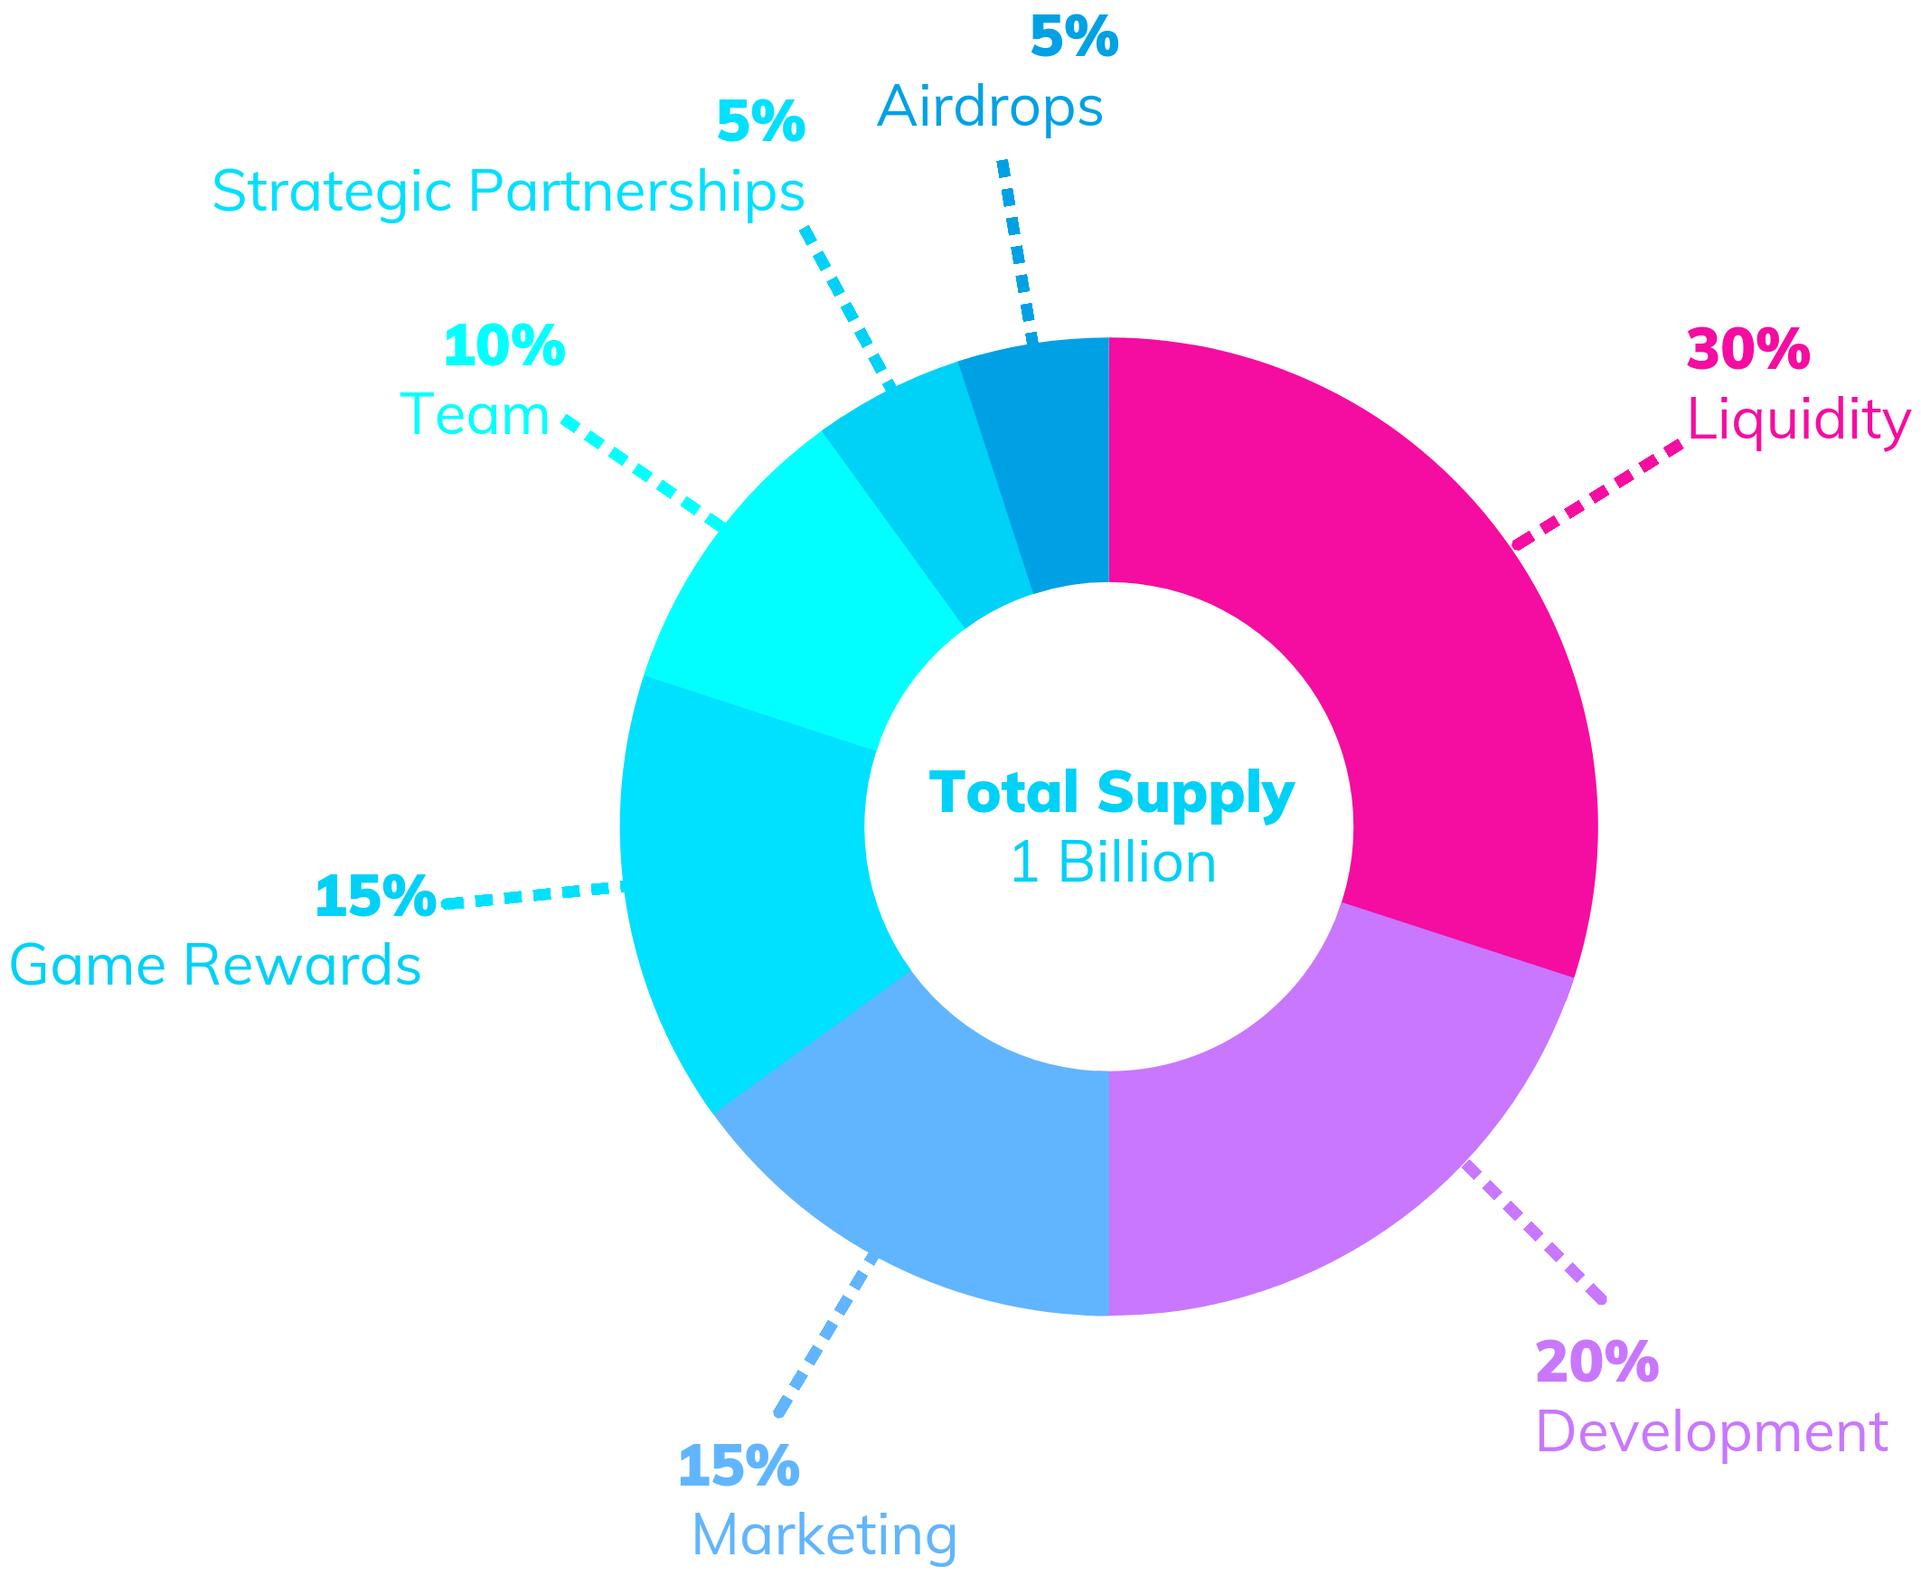
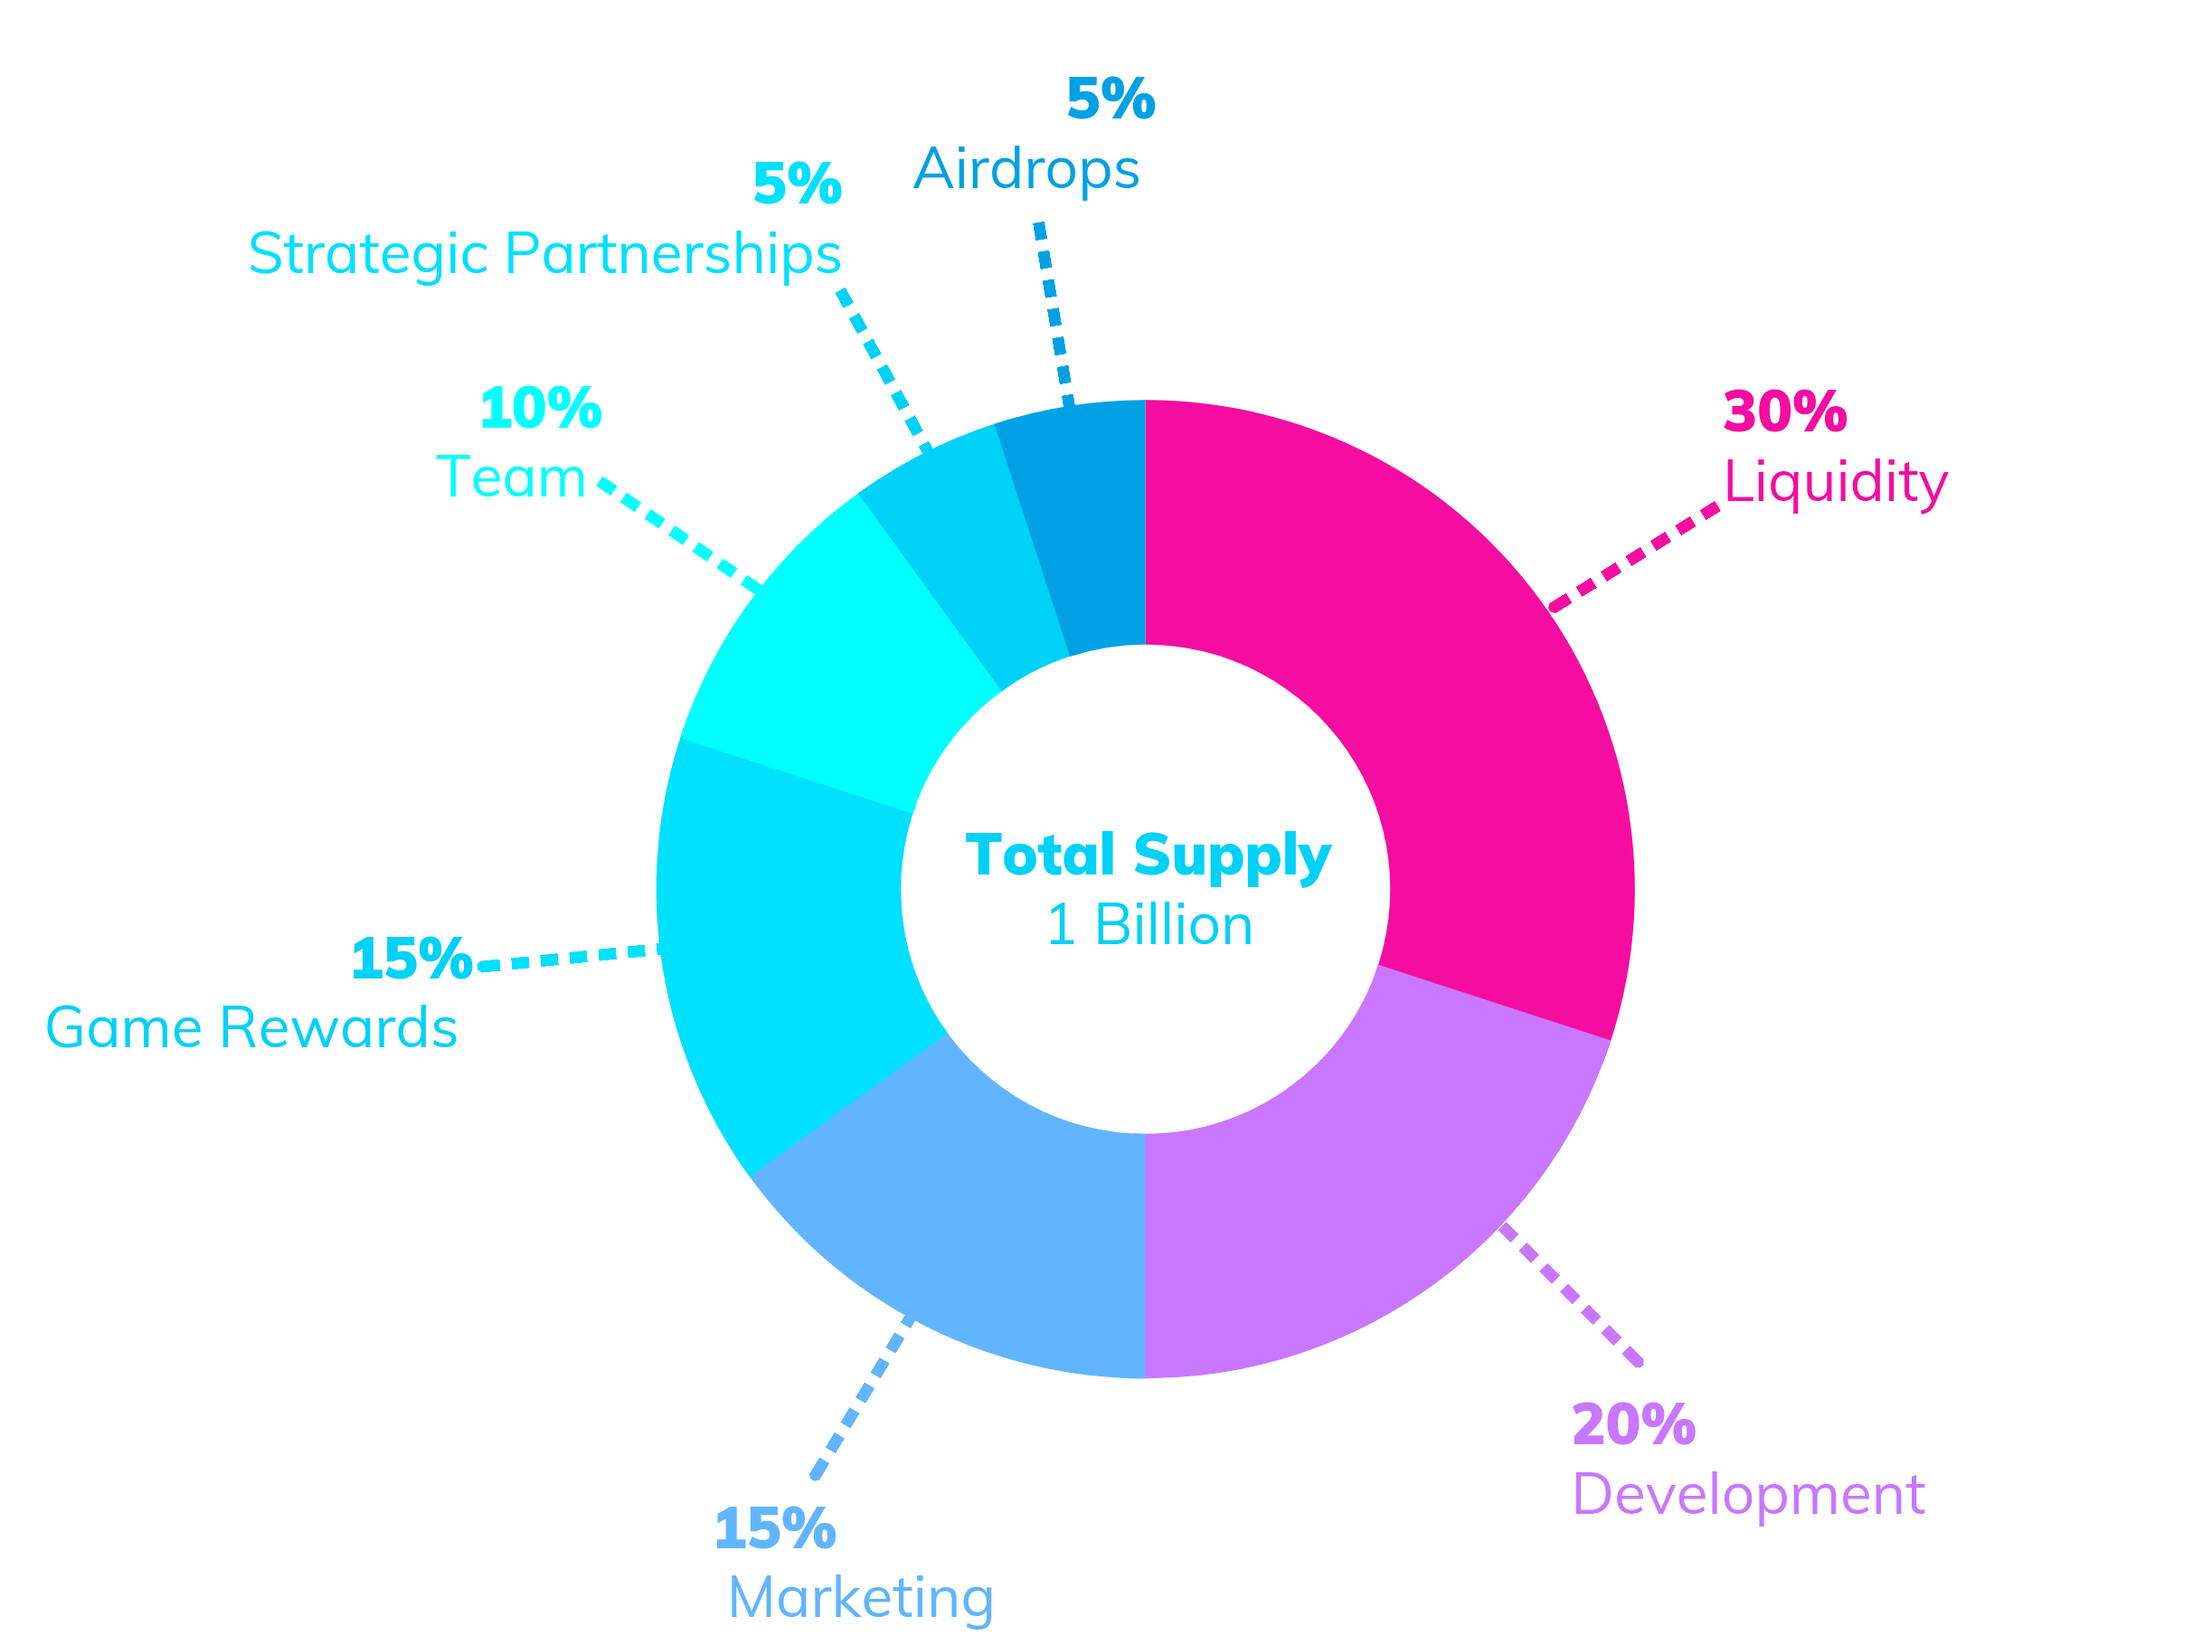
gg

diff --git a/index.html b/index.html
@@ -201,7 +201,9 @@
                             <!-- <p class="desc">The most technologically advanced species will not stop any time soon...</p> -->
                         </div>
                         <div class="creation__main d-flex justify-content-center pt-5">
-                            <img src="./assets/images/tokenomics.png" style = "width: 1300px;height: auto;" class = "img-fluid" alt="">
+                            <div>
+                                <img src="./assets/images/tokenomics.png" class = "img-fluid" alt="">
+                            </div>
                         </div>
                     </div>
                 </div>
